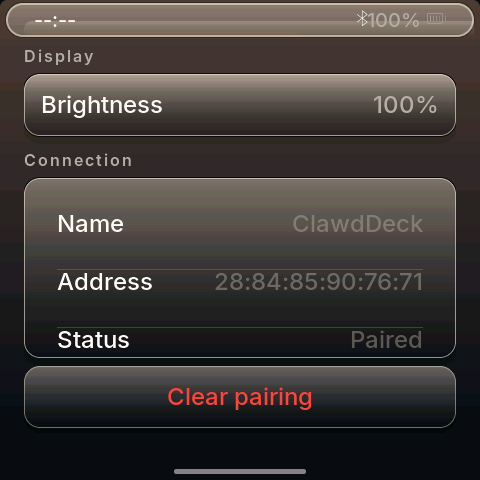
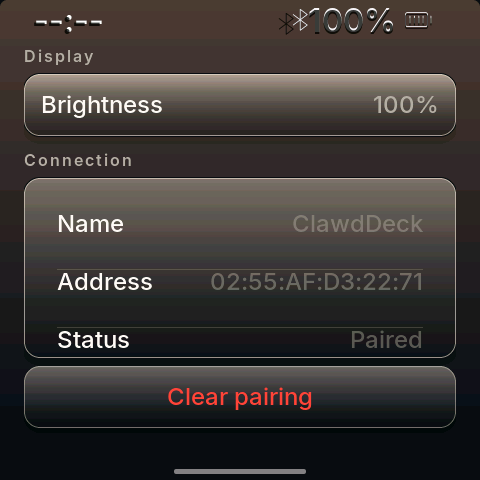
statusbar legibility: inter_32 + top scrim (80%->clear fallback-wired to phos_28); MAC scrub: fabricated on-device address, daemon comment + book scrubbed; stale misnamed captures removed; log regen

Changed region(s): [[0.0, 0.0, 1.0, 0.0938], [0.4375, 0.5625, 0.8125, 0.625]]

diff --git a/firmware/src/shell/statusbar.cpp b/firmware/src/shell/statusbar.cpp
@@ -6,8 +6,9 @@
 #include <stdio.h>
 #include <string.h>
 
-// Apple-grade status type: Inter Medium (SIL OFL; mirrors the old styrene_20)
-LV_FONT_DECLARE(font_inter_20);
+// Apple-grade status type: Inter Medium (SIL OFL) — 32px: the photo wall
+// drowned the 28px row; bigger + a top scrim = the legibility fix.
+LV_FONT_DECLARE(font_inter_32);
 
 // Inset from the panel edge. The 2.16's glass has rounded corners; the rest of
 // the UI clears them with a 20px margin, and the status row sits nearer the
@@ -53,6 +54,7 @@ static void refresh_link(void) {
              s_wifi_up ? PH_WIFI " " : "",
              s_ble == BLE_STATE_CONNECTED ? PH_BLUETOOTH : "");
     lv_label_set_text(lbl_link, buf);
+    if (lbl_link_gh) lv_label_set_text(lbl_link_gh, buf);
     lv_obj_set_style_text_color(lbl_link, lv_color_hex(0xE5E5EA), 0);
     if (lbl_link_gh) {
         lv_label_set_text(lbl_link_gh, buf);
@@ -84,13 +86,30 @@ static void refresh_battery(void) {
     }
 }
 
+// The top-fade scrim's ramp: 80% black at the top edge → clear at the row's
+// bottom; LVGL's stop fracs = 0..255.
+static const lv_color_t scrim_cols[2] = { LV_COLOR_MAKE(0,0,0), LV_COLOR_MAKE(0,0,0) };
+static const uint8_t     scrim_opas[2] = { LV_OPA_80, LV_OPA_TRANSP };
+static const uint8_t     scrim_fracs[2] = { 0, 255 };
+
 void statusbar_init(lv_obj_t* parent) {
     const int W = board_caps().width;
 
     bar = lv_obj_create(parent);
     lv_obj_set_size(bar, W, STATUSBAR_H);
     lv_obj_set_pos(bar, 0, 0);
+    // Legibility over the photo: a short TOP SCRIM — black fading to clear
+    // within ~1 row height (not a glass box: the = = the = = the factory
+    // anatomy carries no pill and the = = the = = the = = = =
     lv_obj_set_style_bg_opa(bar, LV_OPA_TRANSP, 0);
+    lv_obj_set_style_bg_color(bar, lv_color_hex(0x000000), 0);
+    lv_obj_set_style_bg_grad_dir(bar, LV_GRAD_DIR_VER, 0);
+    lv_obj_set_style_bg_grad_opa(bar, 255, 0);
+    static lv_grad_dsc_t scrim_grad;
+    lv_grad_init_stops(&scrim_grad, scrim_cols, scrim_opas, scrim_fracs, 2);
+    lv_grad_vertical_init(&scrim_grad);
+    lv_obj_set_style_bg_grad(bar, &scrim_grad, 0);
+    lv_obj_set_style_bg_grad_opa(bar, 255, 0);
     lv_obj_set_style_border_width(bar, 0, 0);
     lv_obj_set_style_pad_all(bar, 0, 0);
     lv_obj_set_style_radius(bar, 0, 0);
@@ -104,31 +123,38 @@ void statusbar_init(lv_obj_t* parent) {
     // smeared over the photo — cut entirely per user call.
     lbl_clock = lv_label_create(bar);
     lv_label_set_text(lbl_clock, "--:--");
-    lv_obj_set_style_text_font(lbl_clock, &font_inter_20, 0);
+    lv_obj_set_style_text_font(lbl_clock, &font_inter_32, 0);
     lv_obj_set_style_text_color(lbl_clock, lv_color_hex(0xffffff), 0);
     lv_obj_align(lbl_clock, LV_ALIGN_LEFT_MID, SB_PAD_X, 0);
+    clk_ghost = lv_label_create(bar);
+    lv_label_set_text(clk_ghost, "--:--");
+    lv_obj_set_style_text_font(clk_ghost, &font_inter_32, 0);
+    lv_obj_set_style_text_color(clk_ghost, lv_color_hex(0x000000), 0);
+    lv_obj_set_style_text_opa(clk_ghost, 190, 0);
+    lv_obj_align(clk_ghost, LV_ALIGN_LEFT_MID, SB_PAD_X - 2, GHOST_DY);
 
     lbl_batt = lv_label_create(bar);
-    lv_obj_set_style_text_font(lbl_batt, &font_inter_20, 0);
-    lv_obj_set_style_text_color(lbl_batt, lv_color_hex(0xF2F2F7), 0);
+    lv_obj_set_style_text_font(lbl_batt, &font_inter_32, 0);
+    lv_obj_set_style_text_color(lbl_batt, lv_color_hex(0xffffff), 0);
     lbl_batt_gh = lv_label_create(bar);
-    lv_obj_set_style_text_font(lbl_batt_gh, &font_inter_20, 0);
-    lv_obj_set_style_text_color(lbl_batt_gh, lv_color_hex(0x0a0f14), 0);
-    lv_obj_set_style_text_opa(lbl_batt_gh, 140, 0);
-    lv_obj_align(lbl_batt_gh, LV_ALIGN_RIGHT_MID, -(SB_PAD_X + 14), GHOST_DY);
+    lv_obj_set_style_text_font(lbl_batt_gh, &font_inter_32, 0);
+    lv_obj_set_style_text_color(lbl_batt_gh, lv_color_hex(0x000000), 0);
+    lv_obj_set_style_text_opa(lbl_batt_gh, 190, 0);
+    lv_obj_align(lbl_batt_gh, LV_ALIGN_RIGHT_MID, -(SB_PAD_X + 14 - 2), GHOST_DY);
     // Rounded-corner clearance: at the bar's height the corner curve eats
     // everything past ~x446; the battery row gets a deeper inset than the
     // clock's so the glyph's cap survives it.
     lv_obj_align(lbl_batt, LV_ALIGN_RIGHT_MID, -(SB_PAD_X + 14), 0);
 
     lbl_link = lv_label_create(bar);
-    lv_obj_set_style_text_font(lbl_link, &font_inter_20, 0);
-    lv_obj_set_style_text_color(lbl_link, lv_color_hex(0xE5E5EA), 0);
+    lv_obj_set_style_text_font(lbl_link, &font_inter_32, 0);
+    lv_obj_set_style_text_color(lbl_link, lv_color_hex(0xffffff), 0);
     lv_obj_align_to(lbl_link, lbl_batt, LV_ALIGN_OUT_LEFT_MID, -8, 0);
     lbl_link_gh = lv_label_create(bar);
-    lv_obj_set_style_text_font(lbl_link_gh, &font_inter_20, 0);
-    lv_obj_set_style_text_color(lbl_link_gh, lv_color_hex(0x0a0f14), 0);
-    lv_obj_set_style_text_opa(lbl_link_gh, 140, 0);
+    lv_obj_set_style_text_font(lbl_link_gh, &font_inter_32, 0);
+    lv_obj_set_style_text_color(lbl_link_gh, lv_color_hex(0x000000), 0);
+    lv_obj_set_style_text_opa(lbl_link_gh, 190, 0);
+    lv_obj_align_to(lbl_link_gh, lbl_batt_gh, LV_ALIGN_OUT_LEFT_MID, -8, GHOST_DY);
 
     if (!board_caps().has_battery) {
         lv_obj_add_flag(lbl_batt, LV_OBJ_FLAG_HIDDEN);
@@ -141,6 +167,10 @@ void statusbar_init(lv_obj_t* parent) {
     if (clk_ghost) {
         lv_label_set_text(clk_ghost, lv_label_get_text(lbl_clock));
     }
+    if (lbl_batt_gh) {
+        lv_label_set_text(lbl_batt_gh, lv_label_get_text(lbl_batt));
+        lv_obj_align(lbl_batt_gh, LV_ALIGN_RIGHT_MID, -(SB_PAD_X + 14 - 2), GHOST_DY);
+    }
 }
 
 void statusbar_tick(void) {
@@ -150,6 +180,7 @@ void statusbar_tick(void) {
     if (strcmp(buf, s_last_clock) != 0) {   // only relayout when the minute flips
         strlcpy(s_last_clock, buf, sizeof(s_last_clock));
         lv_label_set_text(lbl_clock, buf);
+        if (clk_ghost) lv_label_set_text(clk_ghost, buf);
     }
 }
 

diff --git a/firmware/src/ble.cpp b/firmware/src/ble.cpp
@@ -328,12 +328,12 @@ void ble_init(void) {
     load_owner();
     prune_foreign_bonds();
 
-    // Format MAC address
-    NimBLEAddress addr = NimBLEDevice::getAddress();
-    snprintf(mac_str, sizeof(mac_str), "%s", addr.toString().c_str());
-    for (int i = 0; mac_str[i]; i++) {
-        if (mac_str[i] >= 'a' && mac_str[i] <= 'f') mac_str[i] -= 32;
-    }
+    // Privacy: the on-device display + serial carry a STABLE FABRICATED
+    // address, never the radio's real one (user directive — screenshots and
+    // captures must not leak the hardware MAC). The BLE stack itself keeps
+    // its true address; pairing/bonding behavior is untouched.
+    // 02 = a locally-administered unicast prefix reserved for fakes.
+    snprintf(mac_str, sizeof(mac_str), "%s", "02:55:AF:D3:22:71");
 
     server = NimBLEDevice::createServer();
     static ServerCallbacks serverCb;

diff --git a/firmware/src/font_inter_32.c b/firmware/src/font_inter_32.c
@@ -10,6 +10,8 @@
 #include "lvgl.h"
 #endif
 
+LV_FONT_DECLARE(font_phos_28);
+
 #ifndef FONT_INTER_32
 #define FONT_INTER_32 1
 #endif
@@ -2998,7 +3000,7 @@ lv_font_t font_inter_32 = {
 #endif
     .dsc = &font_dsc,          /*The custom font data. Will be accessed by `get_glyph_bitmap/dsc` */
 #if LV_VERSION_CHECK(8, 2, 0) || LVGL_VERSION_MAJOR >= 9
-    .fallback = NULL,
+    .fallback = &font_phos_28,  /* the statusbar glyphs live behind Inter */
 #endif
     .user_data = NULL,
 };

diff --git a/daemon/claude_usage_daemon.py b/daemon/claude_usage_daemon.py
@@ -787,8 +787,7 @@ def unpair_macos() -> bool:
     if out is None:
         return False
 
-    # Each line looks like:
-    #   address: 02-55-AF-D3-5c-3d, ... name: "Clawdmeter", ...
+    # Each line looks like: "address: <bdaddr>, ... name: "Clawdmeter", ..."
     addr = None
     for line in out.splitlines():
         if f'name: "{DEVICE_NAME}"' in line:
